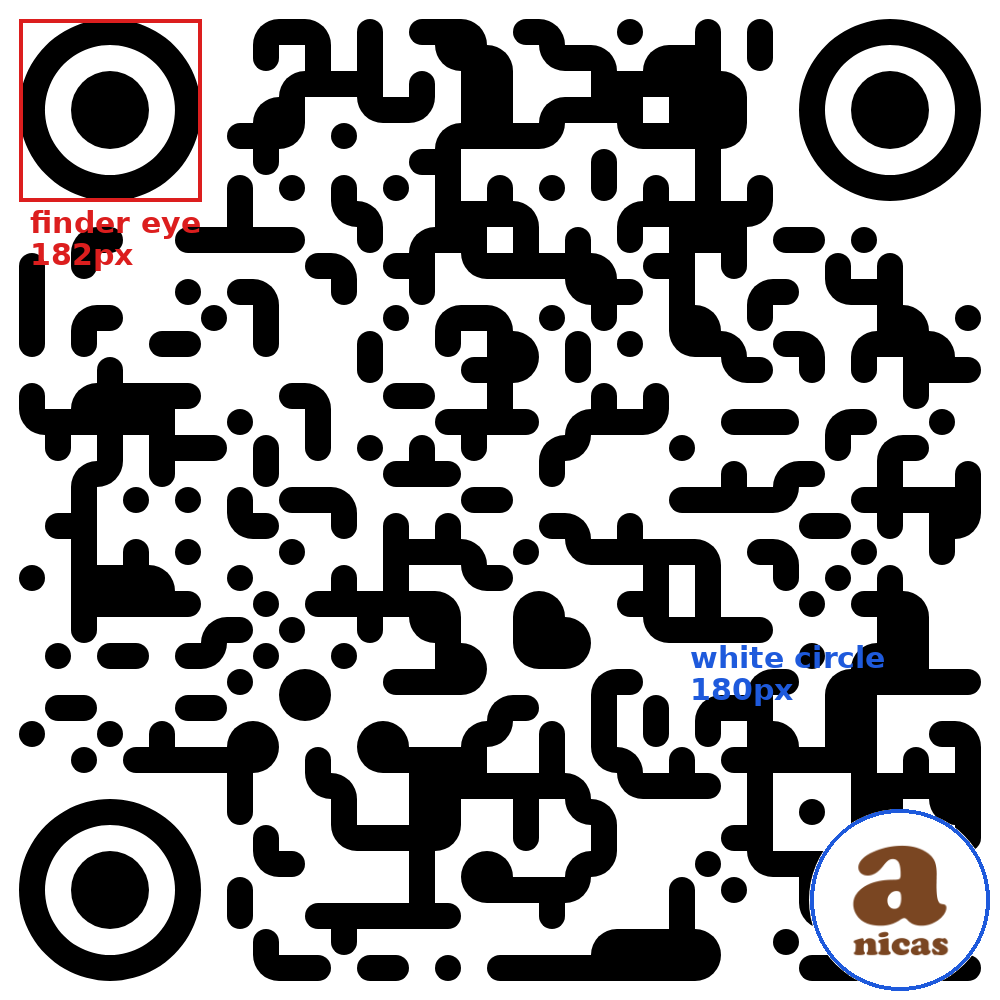
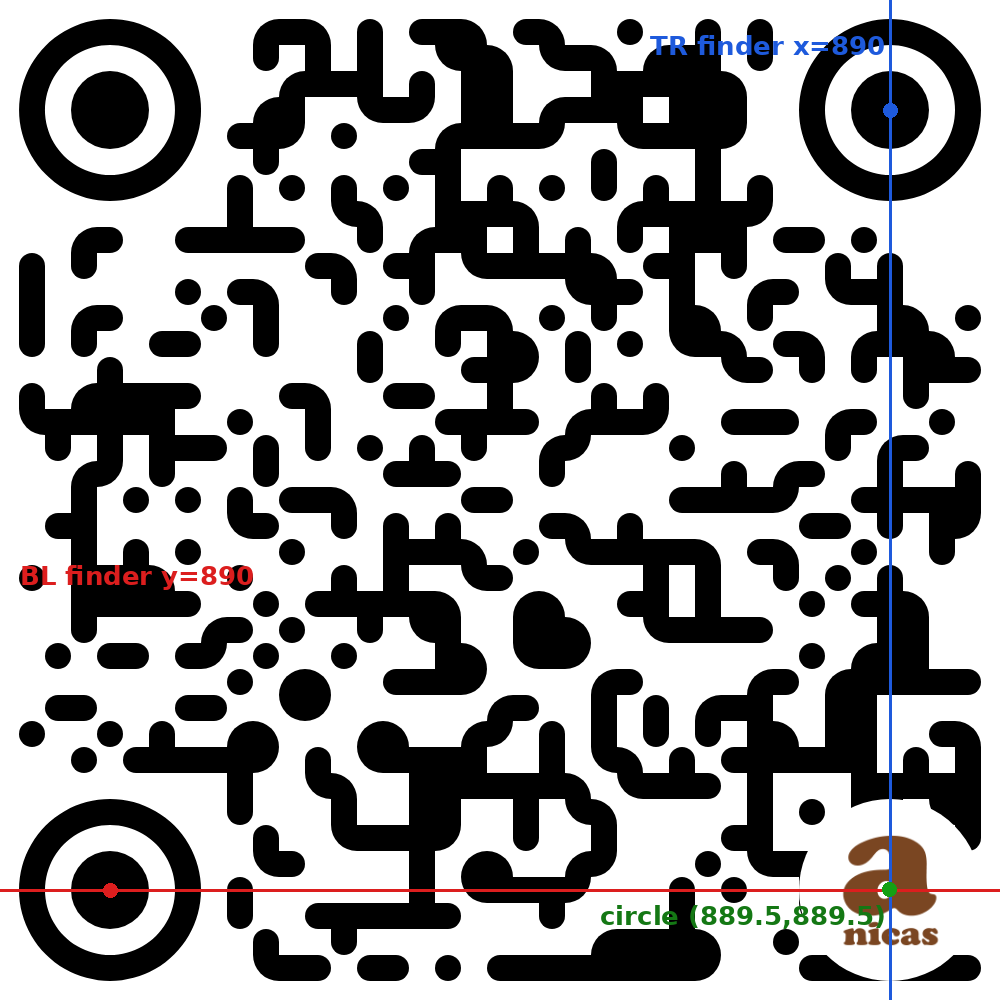
feat: 白円をファインダグリッド(右下=4つ目の目)位置に整列
白円(=ロゴ背面)の中心を、右下のファインダグリッド位置に配置。
- 中心 = origin + (moduleCount-3.5)*dotSize
  (origin = floor((width - count*dotSize)/2))
- 右上ファインダと同じ横位置・左下ファインダと同じ高さになる
- gap基準(LOGO_RIGHT_GAP/LOGO_BOTTOM_GAP)の配置を廃止し、グリッド基準に統一
- 実測: 白円中心(889.5,889.5) vs 右上finder x=890 / 左下finder y=890
  → 差 -0.5px(横・高さ一致)、円180px vs 目182px(-1.1%)、pyzbarデコード成功

https://claude.ai/code/session_01FuHJN5Y6LjSucDmVFFUeQy

diff --git a/lib/qr.ts b/lib/qr.ts
@@ -25,9 +25,8 @@ const LOGO_SRC = "/anicas_logo_br_square.png";
 const QR_SIZE = 1000; // output canvas size in px (square)
 const QR_MARGIN = 12; // quiet-zone margin in px
 const FINDER_MODULES = 7; // a finder pattern is 7×7 modules (QR spec)
+const FINDER_CENTRE_MODULE = 3.5; // a finder centre sits 3.5 modules in from its matrix edge
 const LOGO_RATIO = 0.12; // logo box width as a fraction of QR width (fits inside the finder-size circle)
-const LOGO_RIGHT_GAP = 0.04; // gap from QR right edge (fraction of QR width)
-const LOGO_BOTTOM_GAP = 0.04; // gap from QR bottom edge (fraction of QR width)
 
 /**
  * Builds the Instagram profile URL encoded into the QR. Mirrors the value
@@ -76,27 +75,34 @@ export async function generateMeishiQr(handle: string): Promise<string | null> {
 
   try {
     const logo = await loadLogo();
-    const w = QR_SIZE * LOGO_RATIO;
-    const x = QR_SIZE - w - QR_SIZE * LOGO_RIGHT_GAP;
-    const y = QR_SIZE - w - QR_SIZE * LOGO_BOTTOM_GAP;
-    const cx = x + w / 2;
-    const cy = y + w / 2;
 
     // Layer order: QR body → white backing circle → logo. The white circle's
-    // diameter is set equal to the QR finder pattern ("eye") outer size so it
-    // visually matches the three eyes. qr-code-styling draws each module at
-    // dotSize = floor((width − 2·margin) / moduleCount) px and a finder is
-    // FINDER_MODULES (7) modules wide, so the eye's outer edge = 7·dotSize.
-    // moduleCount is read from the generated QR, so the circle automatically
-    // tracks the QR version if the encoded content (and thus version) changes.
-    // The circle stays in the bottom-right corner, clear of all three finders,
-    // and is small enough that the data it covers is recoverable at EC level H.
+    // diameter equals the QR finder pattern ("eye") outer size and it is placed
+    // on the finder grid at the bottom-right corner — i.e. exactly where a 4th
+    // finder would sit — so it lines up with the bottom-left finder vertically
+    // and the top-right finder horizontally, visually matching the three eyes.
+    //
+    // qr-code-styling draws each module at dotSize = floor((width − 2·margin) /
+    // moduleCount) px, centres the matrix (origin = floor((width − count·dotSize)
+    // / 2)), and a finder is FINDER_MODULES (7) modules wide with its centre
+    // FINDER_CENTRE_MODULE (3.5) modules in from the edge. moduleCount is read
+    // from the generated QR, so everything tracks the QR version automatically.
+    // The circle covers only bottom-right data, recoverable at EC level H.
     // canvas arc fill is antialiased, so the rim is smooth (no jaggies).
-    const moduleCount = qr._qr?.getModuleCount();
-    const dotSize = moduleCount
-      ? Math.floor((QR_SIZE - 2 * QR_MARGIN) / moduleCount)
-      : (QR_SIZE - 2 * QR_MARGIN) / 37; // fallback ≈ version-5 sizing
+    const moduleCount = qr._qr?.getModuleCount() ?? 37; // fallback ≈ version 5
+    const dotSize = Math.floor((QR_SIZE - 2 * QR_MARGIN) / moduleCount);
+    const origin = Math.floor((QR_SIZE - moduleCount * dotSize) / 2);
+    // Bottom-right finder-grid position: same offset as the top-right finder's
+    // x and the bottom-left finder's y.
+    const centre = origin + (moduleCount - FINDER_CENTRE_MODULE) * dotSize;
+    const cx = centre;
+    const cy = centre;
     const radius = (FINDER_MODULES * dotSize) / 2;
+
+    const w = QR_SIZE * LOGO_RATIO;
+    const x = cx - w / 2;
+    const y = cy - w / 2;
+
     ctx.save();
     ctx.fillStyle = "#FFFFFF";
     ctx.beginPath();
